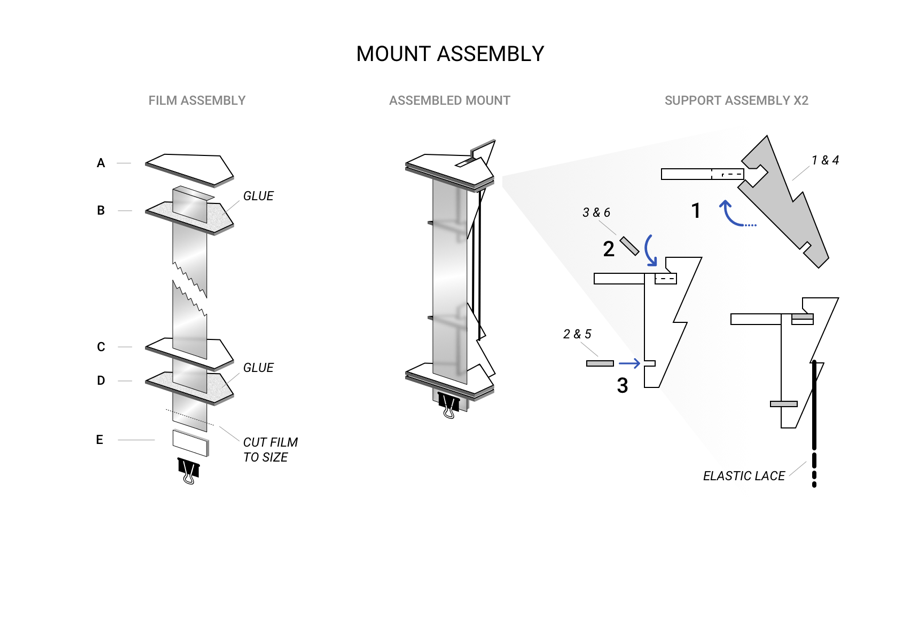
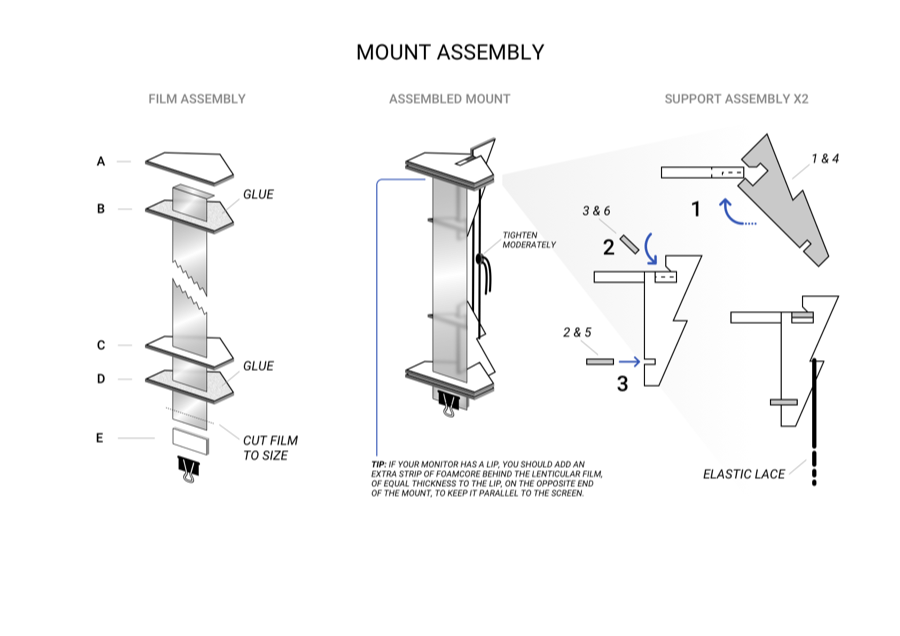
updates

diff --git a/README.md b/README.md
@@ -49,6 +49,8 @@ Once you've got all the pieces cut and ready, all you need to do is follow the b
 
 ![Mount Assembly](images/mount-assembly.png)
 
+## Tip for Perfect Fitting
+If your monitor has a lip, you should add an extra strip of Foamcore behind the Lenticular Film, of equal thickness to the lip, on the oppossite end of the mount, to keep it parallel to the screen.
 
 <br/><br/>
 
